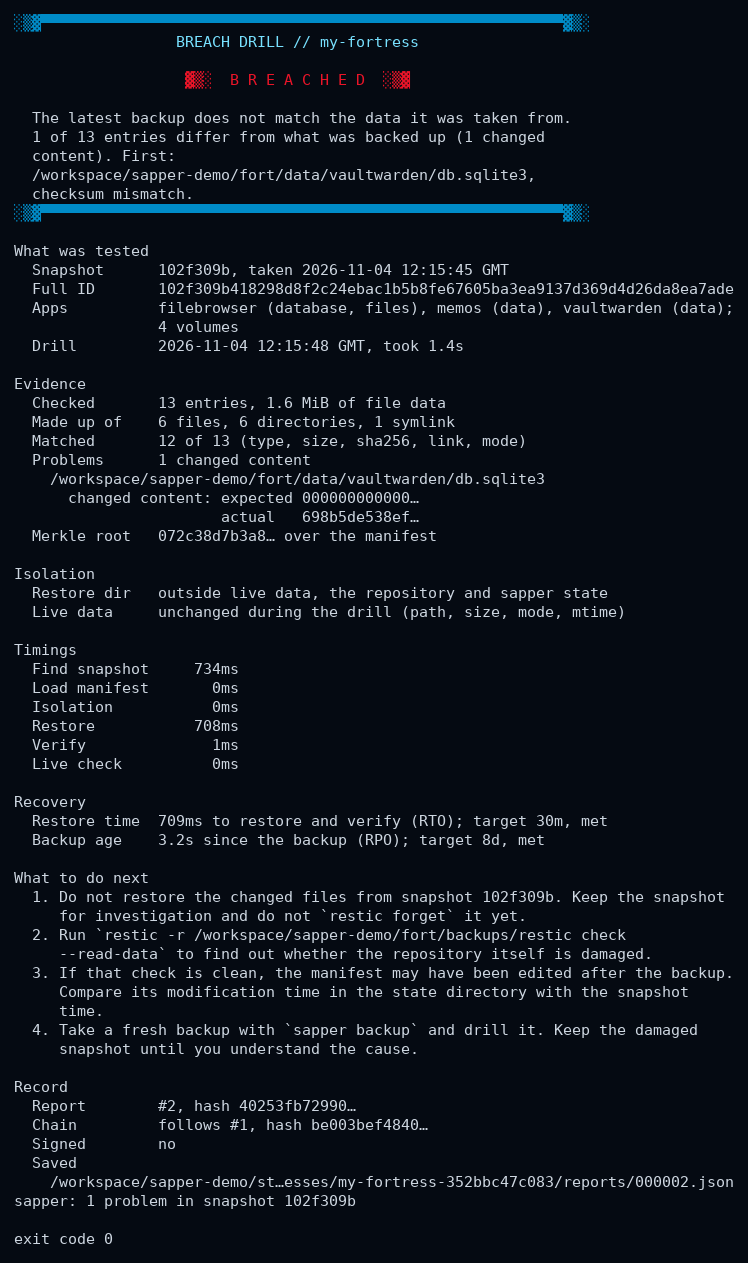
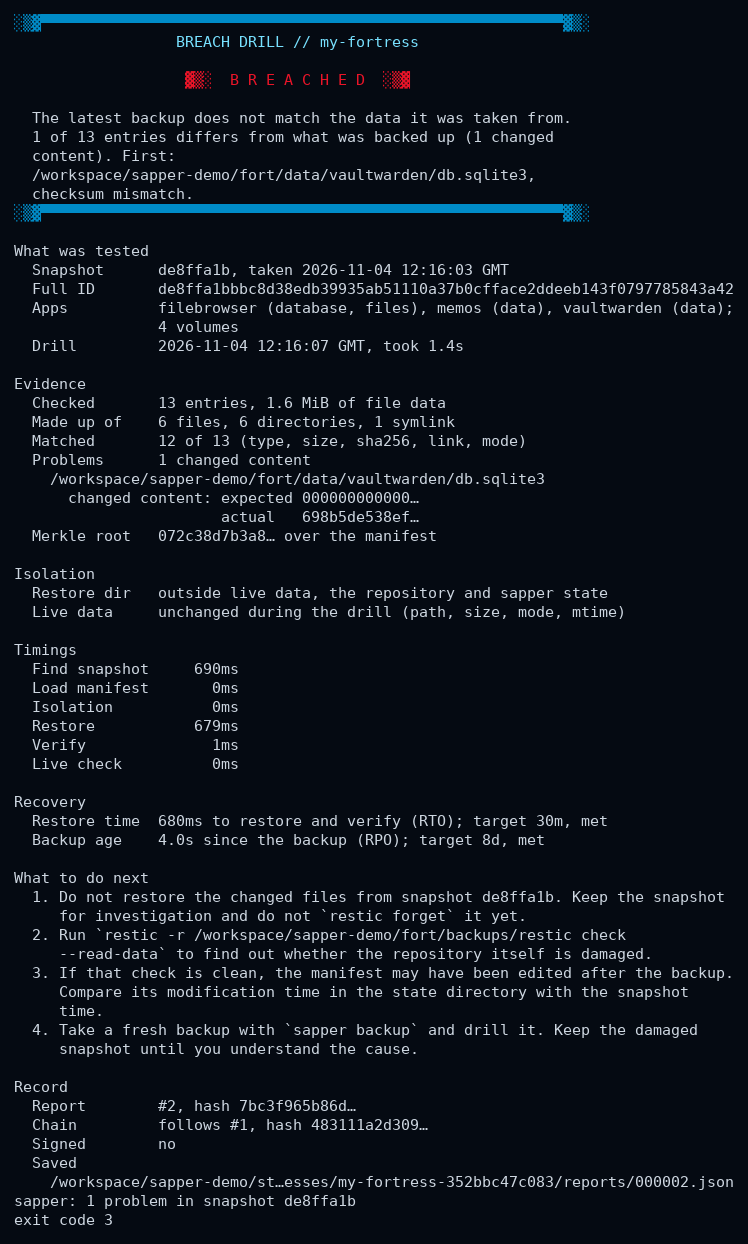
Keep reports verify output inside 80 columns

diff --git a/internal/cli/reports.go b/internal/cli/reports.go
@@ -208,7 +208,8 @@ Exits 0 when the chain is intact and 3 when it is not.`,
 					fmt.Fprintln(a.stdout, "No reports to verify.")
 				} else {
 					fmt.Fprintf(a.stdout, "Chain intact: %s, every hash matches, %s.\n", plural(len(all), "report"), what)
-					fmt.Fprintf(a.stdout, "Latest hash %s. Record it somewhere else and pass it as --head next time.\n", last)
+					fmt.Fprintf(a.stdout, "Latest hash %s\n", report.Clean(last))
+					fmt.Fprintln(a.stdout, "Record it somewhere else and pass it as --head to catch deleted reports.")
 				}
 			} else {
 				fmt.Fprintf(a.stdout, "Chain broken: %s in %s.\n", plural(len(issues), "problem"), plural(len(all), "report"))
